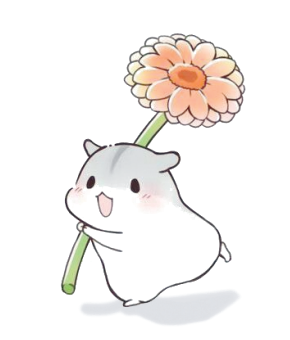
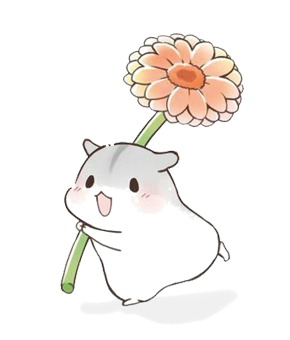
immagini e icone e spazi

diff --git a/app.js b/app.js
@@ -871,7 +871,7 @@ function renderMissione(){
     </div>`;
   } else if (!list.length){
     body = `<div class="card is-centered">
-      <div class="mission-icon-circle">📷</div>
+      <div class="mission-icon-circle">🔍</div>
       <h1>Hai una missione che ti aspetta!</h1>
       <p class="sub-text pretty">Ne esce una a sorpresa, scopri qual è la tua.</p>
       <div class="result-cta">
@@ -1566,7 +1566,7 @@ function renderAdminModal(){
       ${key === 'missioni' && missionPhotoCount ? `<div class="button-alone"><button class="btn-text" data-action="download-mission-photos" ${state.downloadingPhotos ? 'disabled' : ''}>${state.downloadingPhotos ? 'Preparazione dello zip…' : `Scarica tutte le foto (${missionPhotoCount})`}</button></div>
       ` : ''}
       <div class="admin-modal-body">${state.adminModalContent[key] || ''}</div>
-      <div class="button-alone"><button class="btn-text" data-action="reset-all-missions">Svuota tutte le missioni</button></div>
+      <div class="button-alone margin-top-medium"><button class="btn-text" data-action="reset-all-missions">Svuota tutte le missioni</button></div>
     </div>
   </div>`;
 }

diff --git a/style.css b/style.css
@@ -439,6 +439,7 @@ border:0 solid var(--neutral-200); background:var(--cream); color:var(--ink);
   box-shadow:var(--shadow-sm); border-bottom: none;
 }
 .margin-top-small{margin-top: 8px;}
+.margin-top-medium{margin-top: 16px;}
 .podium-block.top{ background:linear-gradient(135deg, var(--accent-500), var(--accent-700)); color:#fffdf6; border:0; box-shadow:var(--shadow-md); }
 .podium-block.rank-1{ height:140px; }
 .podium-block.rank-2{ height:96px; }
